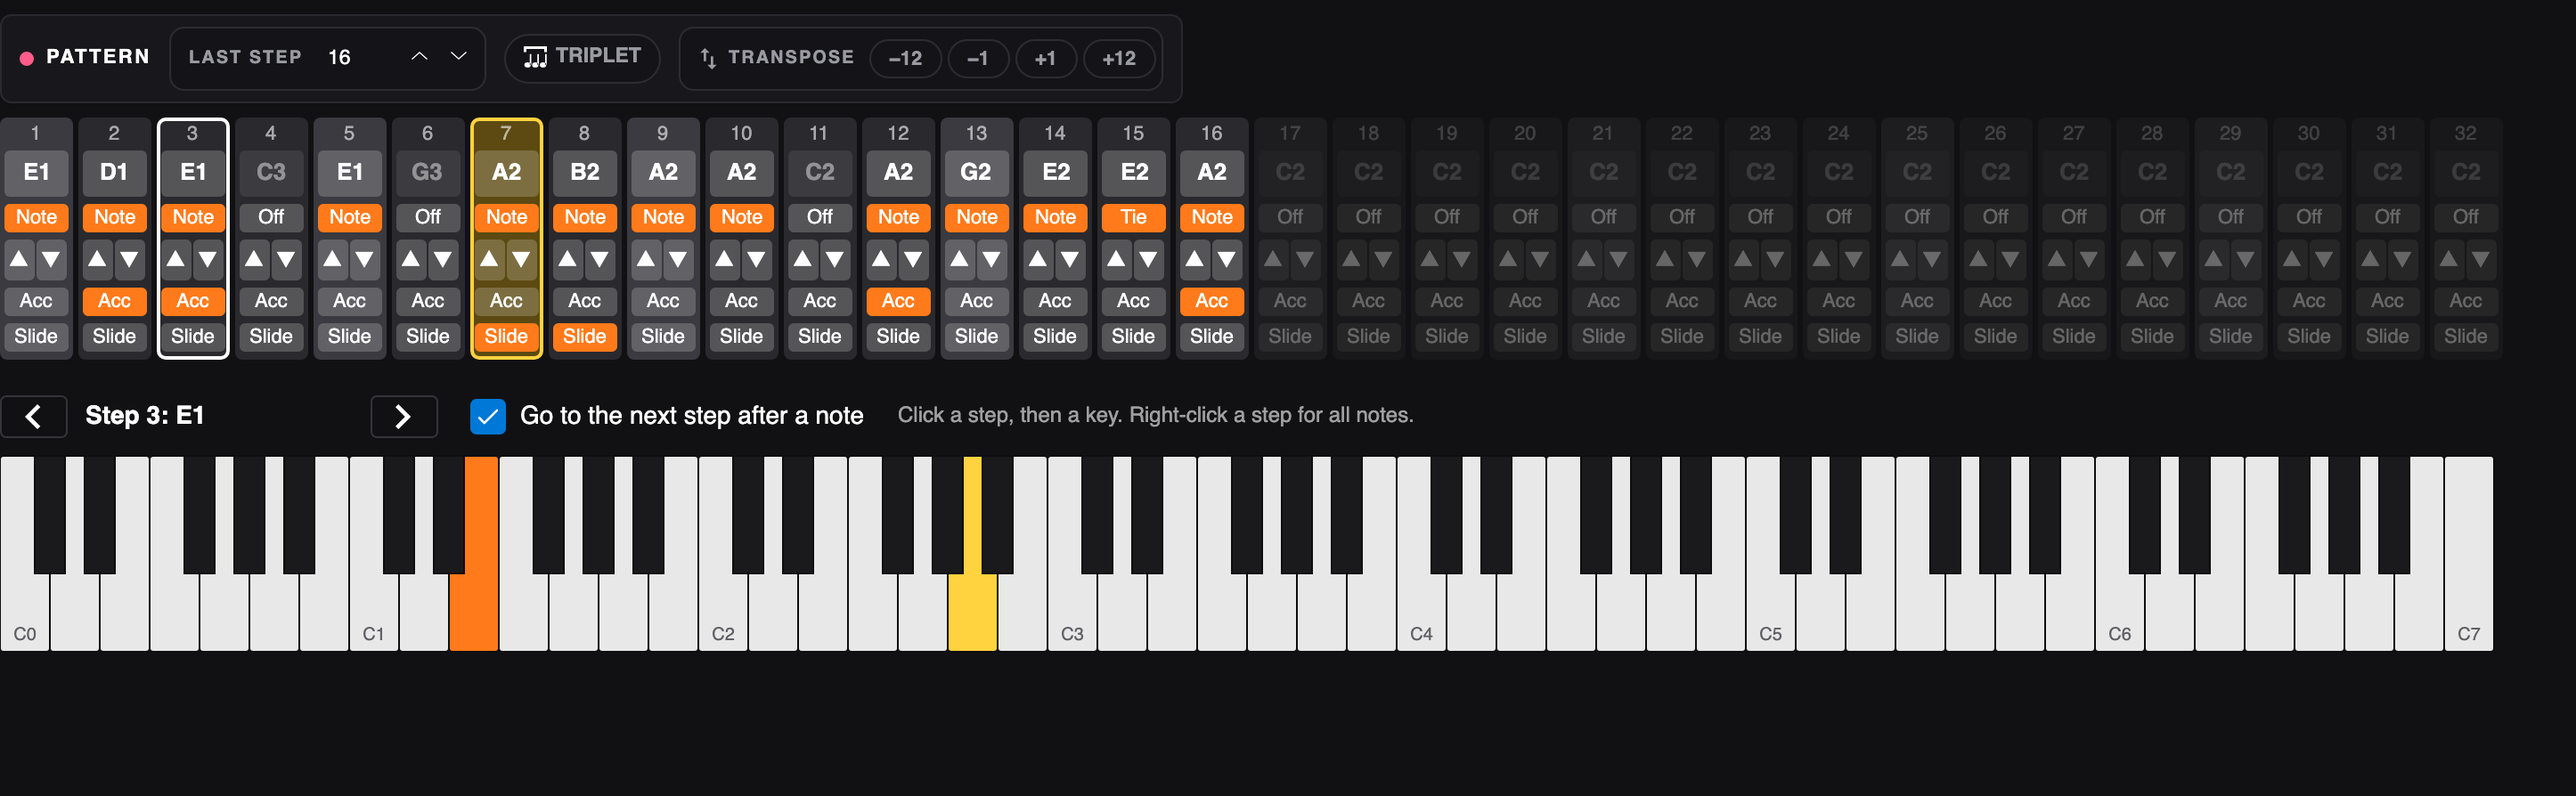
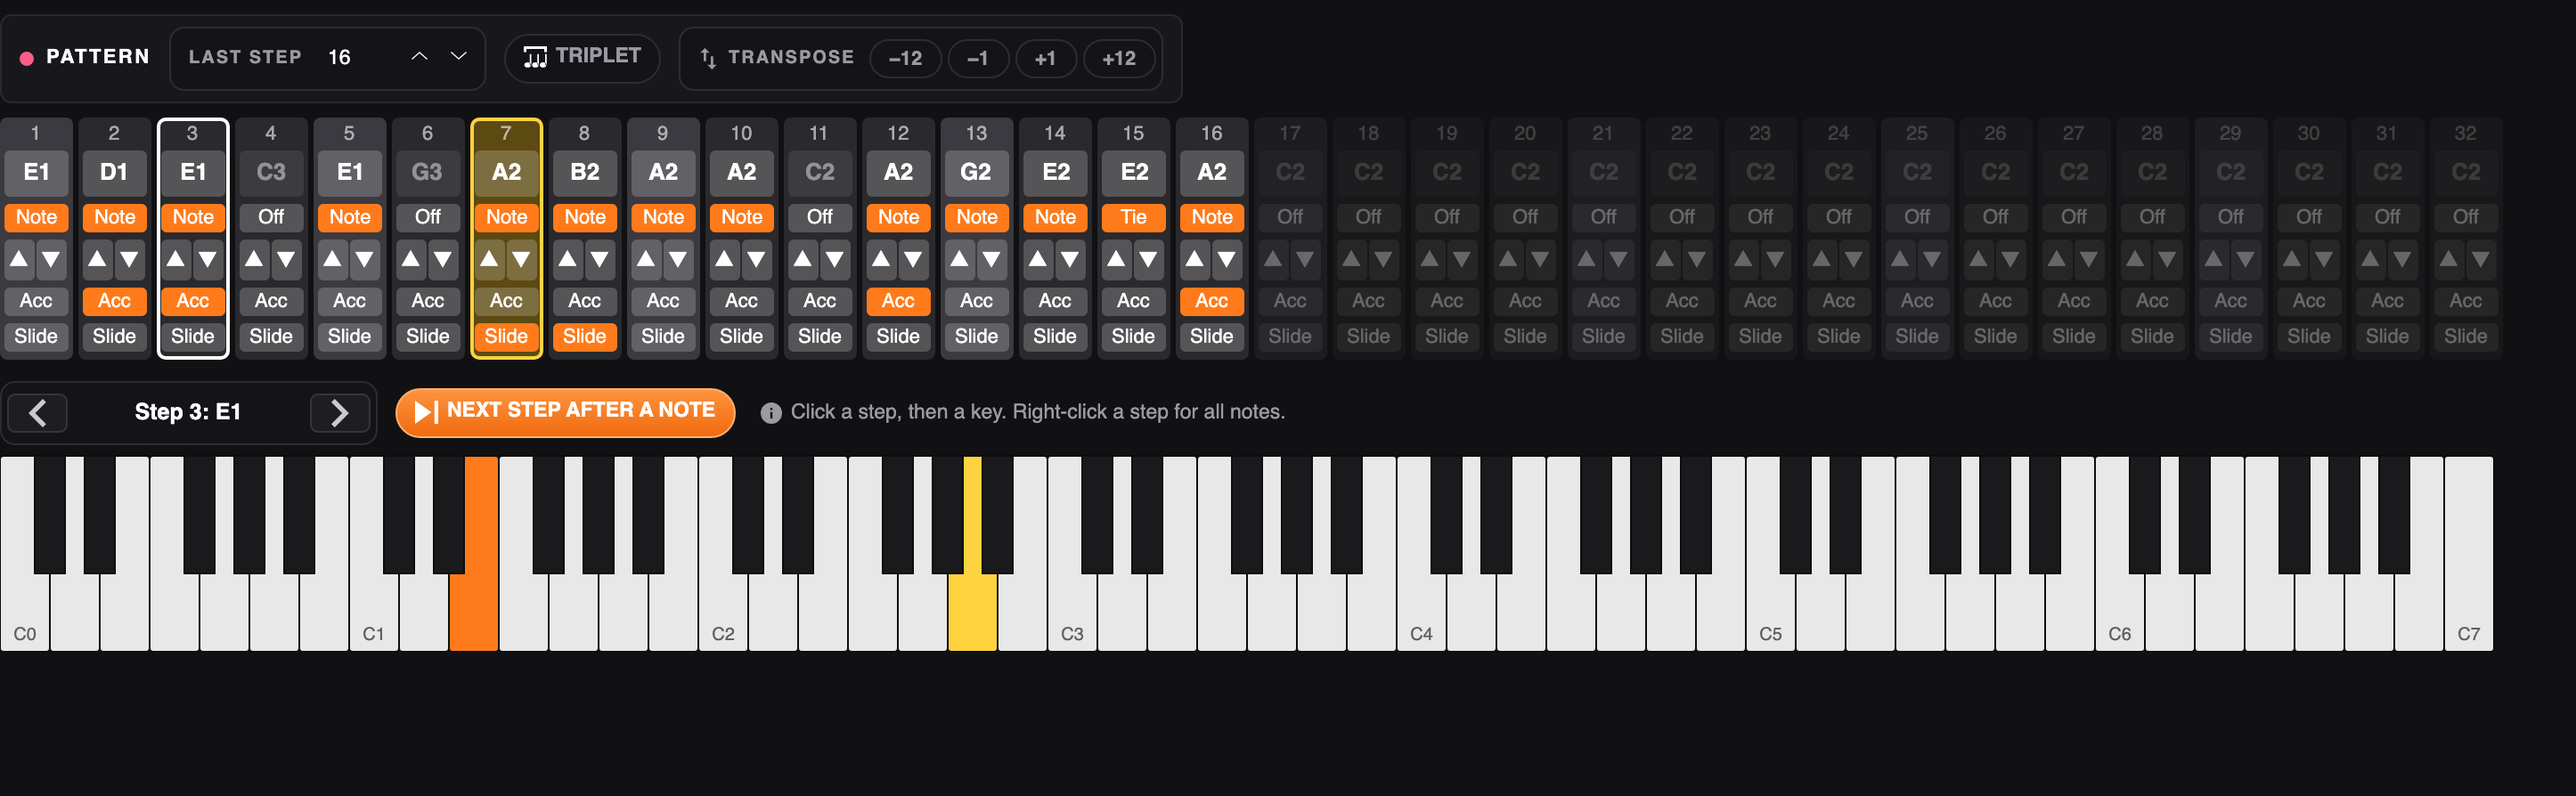
Bass tab: restyled step picker, auto-advance chip and hint
The selected step sits in an outlined box between previous / next icon
buttons; "Next step after a note" is an orange chip with an icon; the
hint gets an info icon and the smaller muted font. The bass test checks
the box, the chip and that next still selects the next step.

Changed region(s): [[0.1245, 0.4832, 0.5602, 0.5738], [0.0, 0.4832, 0.0934, 0.5738]]

diff --git a/tests/T8.Editor.Tests/MainWindowTests.cs b/tests/T8.Editor.Tests/MainWindowTests.cs
@@ -241,6 +241,16 @@ public class MainWindowTests
         triplet.IsChecked = !vm.Bass.Triplet;
         Assert.Equal(triplet.IsChecked, vm.Bass.Triplet);
 
+        // The step picker is an outlined box; "next step after a note" is a chip.
+        Assert.Contains("fieldBox", editor.FindControl<Border>("StepPickerBox")!.Classes);
+        var advance = editor.FindControl<ToggleButton>("AdvanceCheck")!;
+        Assert.Contains("chip", advance.Classes);
+        advance.IsChecked = !vm.Bass.AdvanceAfterNote;
+        Assert.Equal(advance.IsChecked, vm.Bass.AdvanceAfterNote);
+        vm.Bass.SelectedStep = vm.Bass.Steps[0];
+        editor.FindControl<Button>("NextStepButton")!.Command!.Execute(null);
+        Assert.Same(vm.Bass.Steps[1], vm.Bass.SelectedStep);
+
         var before = vm.Bass.Steps[0].NoteName;
         up12.Command!.Execute(up12.CommandParameter);
         Assert.NotEqual(before, vm.Bass.Steps[0].NoteName);

diff --git a/README.md b/README.md
@@ -295,7 +295,7 @@ Each column is one step: its note, its state, semitone up/down, and Accent and S
 - Click a step's note to select it (outlined in white); its note lights up orange on the keyboard.
 - Click a key on the **keyboard** to give the selected step that note. The step is turned on, you hear the note
   on the T-8, and the selection moves to the next step, so you can play a line in key by key. Untick
-  **Go to the next step after a note** to stay on the same step. The arrows move the selection.
+  **Next step after a note** to stay on the same step. The arrows move the selection.
 - The state button cycles **Off → Note → Tie**. A tie holds the previous note through the step.
 - The **Pattern** panel above the steps holds **Last step** (1–32), **Triplet** (lit orange when on) and
   **Transpose** (−12, −1, +1, +12 semitones for the whole line).
